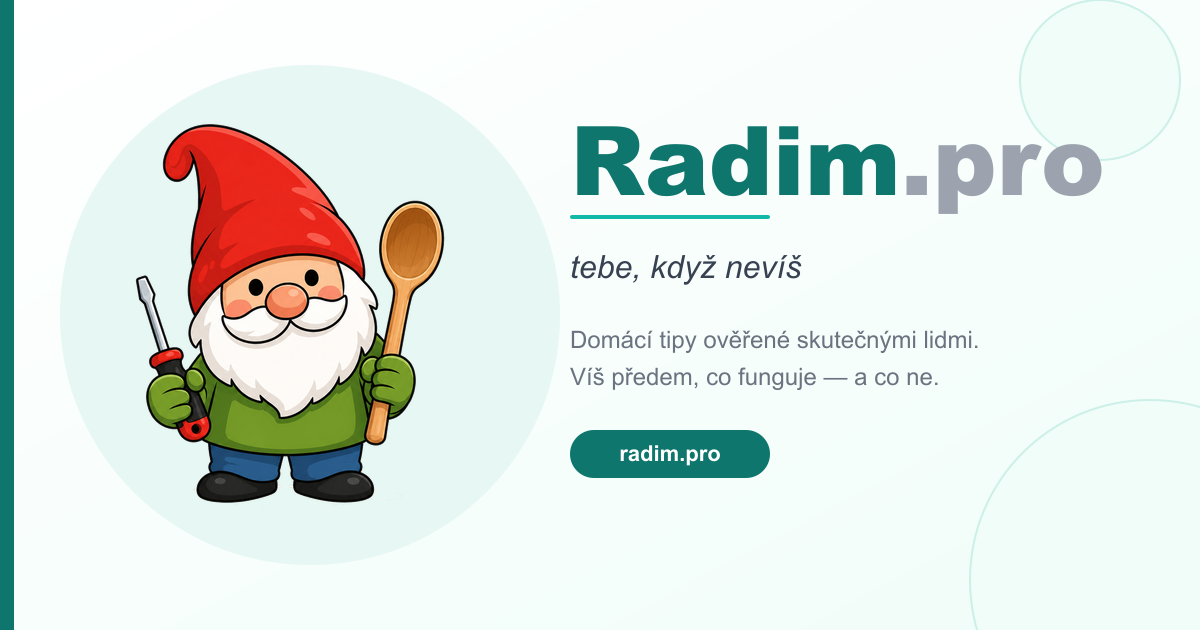
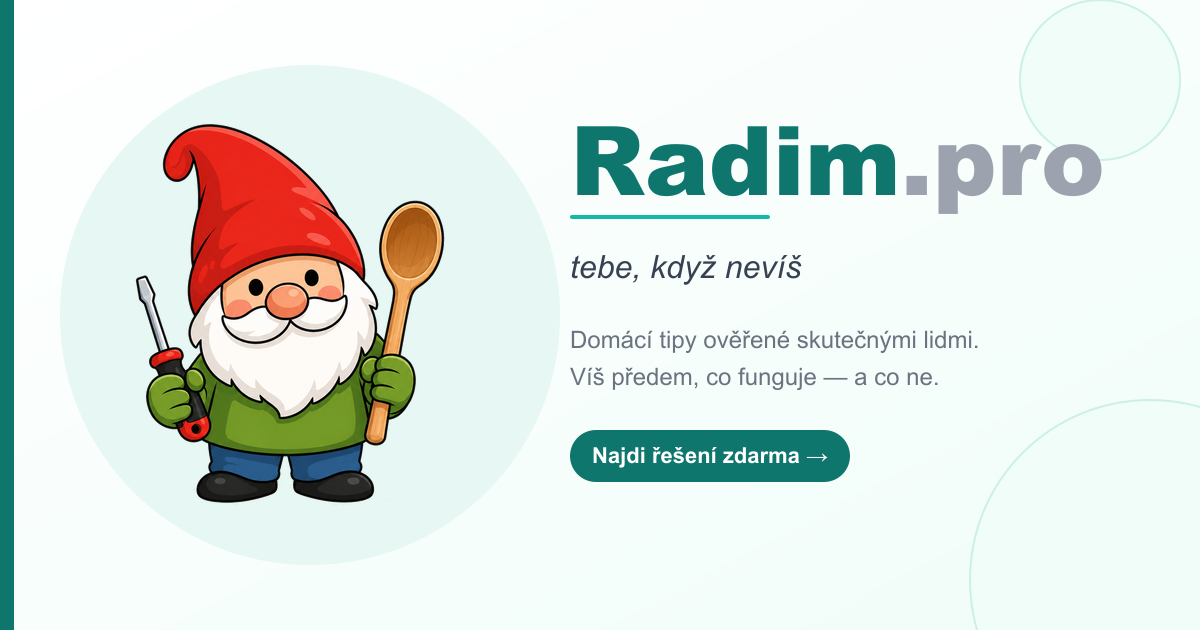
OG: CTA tlačítko v obrázku + title na 54 znaků

Changed region(s): [[0.4933, 0.6635, 0.7092, 0.7841]]

diff --git a/app/layout.tsx b/app/layout.tsx
@@ -10,11 +10,11 @@ import HeaderAuth from "@/components/HeaderAuth";
 const geist = Geist({ subsets: ["latin"] });
 
 export const metadata: Metadata = {
-  title: "Radim.pro – tebe, když nevíš co s tím domem",
+  title: "Radim.pro – tebe, když doma nevíš co s problémem",
   description: "Pračka smrdí, vodní kámen, mastnota na digestoři – Radim.pro sbírá domácí tipy ověřené skutečnými lidmi. Víš předem, co funguje a co ne.",
   metadataBase: new URL("https://radim.pro"),
   openGraph: {
-    title: "Radim.pro – tebe, když nevíš co s tím domem",
+    title: "Radim.pro – tebe, když doma nevíš co s problémem",
     description: "Pračka smrdí, vodní kámen, mastnota na digestoři – Radim.pro sbírá domácí tipy ověřené skutečnými lidmi. Víš předem, co funguje a co ne.",
     url: "https://radim.pro",
     siteName: "Radim.pro",
@@ -24,7 +24,7 @@ export const metadata: Metadata = {
   },
   twitter: {
     card: "summary_large_image",
-    title: "Radim.pro – tebe, když nevíš co s tím domem",
+    title: "Radim.pro – tebe, když doma nevíš co s problémem",
     description: "Pračka smrdí, vodní kámen, mastnota na digestoři – Radim.pro sbírá domácí tipy ověřené skutečnými lidmi. Víš předem, co funguje a co ne.",
     images: ["/og-image.png"],
   },